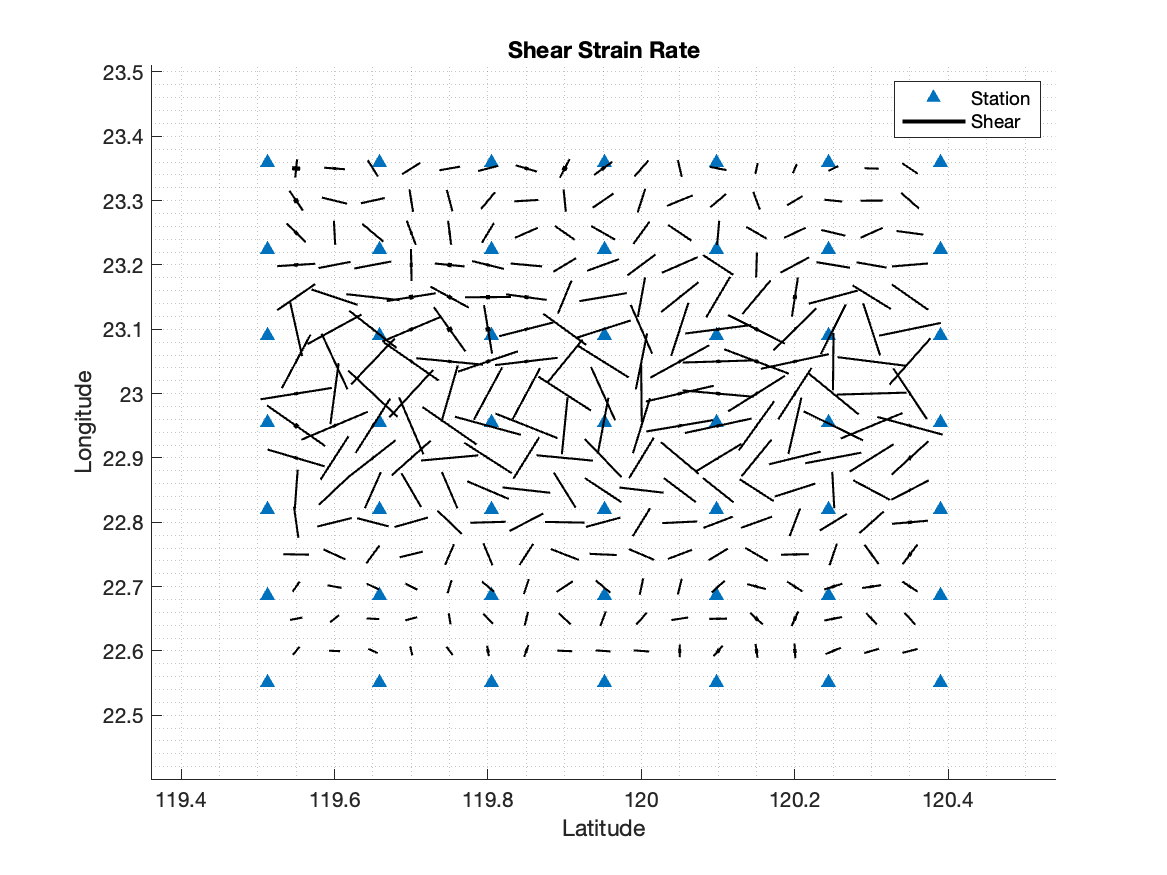
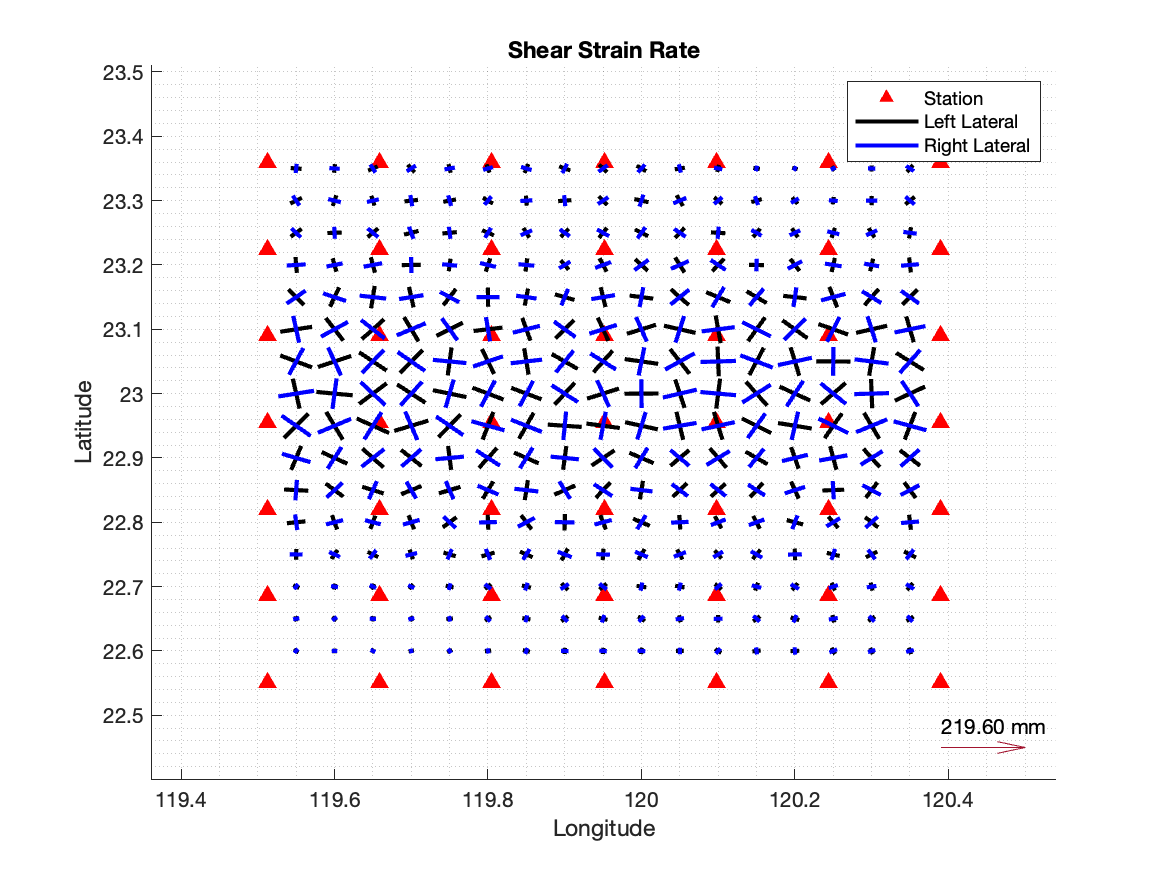
upload Homework2 Shear Figure

diff --git a/Application-of-Geodetic-Techniques-to-Crustal-Deformation/homework2/plotShear.m b/Application-of-Geodetic-Techniques-to-Crustal-Deformation/homework2/plotShear.m
@@ -1,28 +1,41 @@
 function [] = plotShear(Station, Shear, OutName)
 %% ========== Setup ========= %%
 % ===== Initial Value
-scale = 0.001;
+Scale = 0.0005;
+
+diffH = abs(Station(1,1)-Station(8,1));
+diffV = abs(Station(1,2)-Station(2,2));
 
 %% ========== Plot Shear Strain Rate ========= %%
 % ===== Setup
 figure('Name', 'Shear Strain Rate');
 
 % ===== Plot Station
-scatter(Station(:, 1), Station(:, 2), 40, '^', 'filled');
+scatter(Station(:, 1), Station(:, 2), 60, '^', 'filled', 'r');
 hold on;
 
 % ===== Plot Strain
 for i = 1: length(Shear)
-    x1 = [Shear(i, 1)-0.5*Shear(i, 3)*sin(Shear(i, 5))*scale Shear(i, 1)+0.5*Shear(i, 3)*sin(Shear(i, 5))*scale];
-    y1 = [Shear(i, 2)-0.5*Shear(i, 3)*cos(Shear(i, 5))*scale Shear(i, 2)+0.5*Shear(i, 3)*cos(Shear(i, 5))*scale];
+    vx = sin(Shear(i, 5));
+    vy = cos(Shear(i, 5));
+
+    x1 = [Shear(i, 1)-0.5*Shear(i, 4)*vx*Scale Shear(i, 1)+0.5*Shear(i, 4)*vx*Scale];
+    y1 = [Shear(i, 2)-0.5*Shear(i, 4)*vy*Scale Shear(i, 2)+0.5*Shear(i, 4)*vy*Scale];
     plot(x1, y1, 'LineWidth', 2, 'Color', 'k');
     hold on;
 
-    x2 = [Shear(i, 1)-0.5*Shear(i, 4)*sin(Shear(i, 5)+pi/2)*scale Shear(i, 1)+0.5*Shear(i, 4)*sin(Shear(i, 5)+pi/2)*scale];
-    y2 = [Shear(i, 2)-0.5*Shear(i, 4)*cos(Shear(i, 5)+pi/2)*scale Shear(i, 2)+0.5*Shear(i, 4)*cos(Shear(i, 5)+pi/2)*scale];
-    plot(x2, y2, 'LineWidth', 1, 'Color', 'k');
+    x2 = [Shear(i, 1)-0.5*Shear(i, 4)*-vy*Scale Shear(i, 1)+0.5*Shear(i, 4)*-vy*Scale];
+    y2 = [Shear(i, 2)-0.5*Shear(i, 4)*vx*Scale Shear(i, 2)+0.5*Shear(i, 4)*vx*Scale];
+    plot(x2, y2, 'LineWidth', 2, 'Color', 'b');
     hold on;
 end
+
+% ===== Plot Scale
+scale = quiver(max(Station(:, 1)), min(Station(:, 2))-diffV*0.75, diffH*0.75, 0, 0);
+scale.ShowArrowHead = 'on';
+scale.MaxHeadSize = 2;
+text(max(Station(:, 1)), min(Station(:, 2))-diffV*0.5, sprintf('%.2f mm', diffH*0.75/Scale));
+hold off;
 
 % ===== Plot Config
 title('Shear Strain Rate');
@@ -30,11 +43,10 @@ xlabel('Longitude');
 ylabel('Latitude');
 xlim([min(Station(:, 1))-0.15 max(Station(:, 1))+0.15]);
 ylim([min(Station(:, 2))-0.15 max(Station(:, 2))+0.15]);
-legend('Station', 'Shear');
+legend('Station', 'Left Lateral', 'Right Lateral');
 grid minor;
 
 % ========== save Figure ========== %%
 saveas(gcf, OutName, 'png');
 
 end
-

diff --git a/Application-of-Geodetic-Techniques-to-Crustal-Deformation/homework2/plotStrain.m b/Application-of-Geodetic-Techniques-to-Crustal-Deformation/homework2/plotStrain.m
@@ -16,13 +16,16 @@ hold on;
 
 % ===== Plot Strain
 for i = 1: length(Strain)
-    x1 = [Strain(i, 1)-0.5*Strain(i, 3)*sind(Strain(i, 5))*Scale Strain(i, 1)+0.5*Strain(i, 3)*sind(Strain(i, 5))*Scale];
-    y1 = [Strain(i, 2)-0.5*Strain(i, 3)*cosd(Strain(i, 5))*Scale Strain(i, 2)+0.5*Strain(i, 3)*cosd(Strain(i, 5))*Scale];
+    vx = sin(deg2rad(Strain(i, 5)));
+    vy = cos(deg2rad(Strain(i, 5)));
+
+    x1 = [Strain(i, 1)-0.5*Strain(i, 3)*vx*Scale Strain(i, 1)+0.5*Strain(i, 3)*vx*Scale];
+    y1 = [Strain(i, 2)-0.5*Strain(i, 3)*vy*Scale Strain(i, 2)+0.5*Strain(i, 3)*vy*Scale];
     plot(x1, y1, 'LineWidth', 2, 'Color', 'k');
     hold on;
 
-    x2 = [Strain(i, 1)-0.5*Strain(i, 4)*sind(Strain(i, 5)+90)*Scale Strain(i, 1)+0.5*Strain(i, 4)*sind(Strain(i, 5)+90)*Scale];
-    y2 = [Strain(i, 2)-0.5*Strain(i, 4)*cosd(Strain(i, 5)+90)*Scale Strain(i, 2)+0.5*Strain(i, 4)*cosd(Strain(i, 5)+90)*Scale];
+    x2 = [Strain(i, 1)-0.5*Strain(i, 4)*-vy*Scale Strain(i, 1)+0.5*Strain(i, 4)*-vy*Scale];
+    y2 = [Strain(i, 2)-0.5*Strain(i, 4)*vx*Scale Strain(i, 2)+0.5*Strain(i, 4)*vx*Scale];
     plot(x2, y2, 'LineWidth', 2, 'Color', 'b');
     hold on;
 end

diff --git a/Application-of-Geodetic-Techniques-to-Crustal-Deformation/homework2/CD_Homework2.m b/Application-of-Geodetic-Techniques-to-Crustal-Deformation/homework2/CD_Homework2.m
@@ -28,6 +28,7 @@ fclose(ShearFile);
 
 %% ========== Read Shear Angle Data ========== %%
 AngleFile = fopen([FolderPath '/strain.out']);
+AngleData = zeros(size(StrainData, 1), 1);
 cnt = 0;
 while ~feof(AngleFile)
     cnt = cnt + 1;
@@ -43,5 +44,5 @@ fclose(AngleFile);
 plotStrain(StationData, StrainData, [OutputFolder '/Strain']);
 
 %% ========== Plot Shear Strain Rate ========== %%
-% ShearAngleData = [ShearData AngleData];
-% plotShear(StationData, ShearAngleData, [OutputFolder '/Shear']);
+ShearAngleData = [ShearData AngleData];
+plotShear(StationData, ShearAngleData, [OutputFolder '/Shear']);
